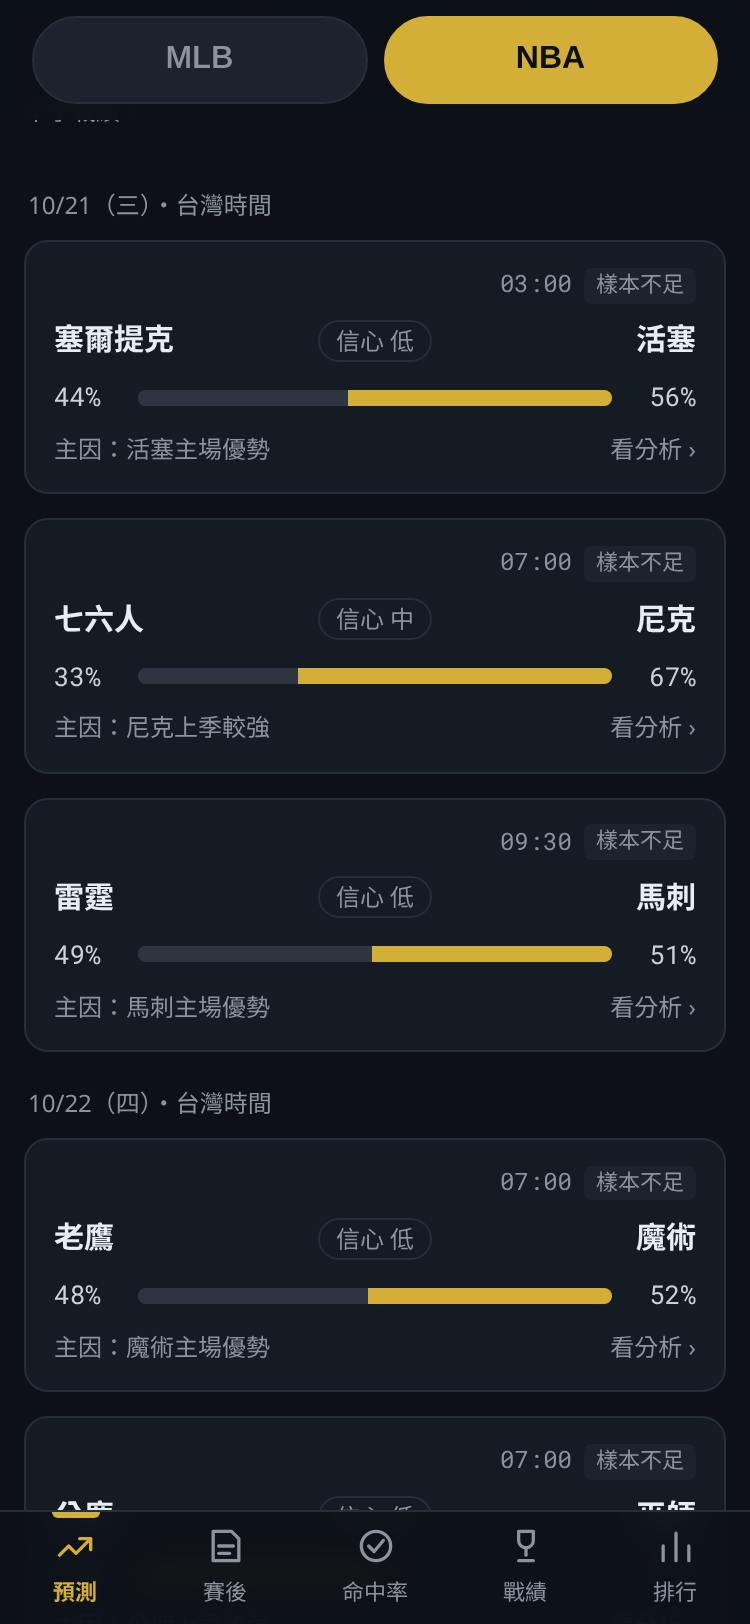
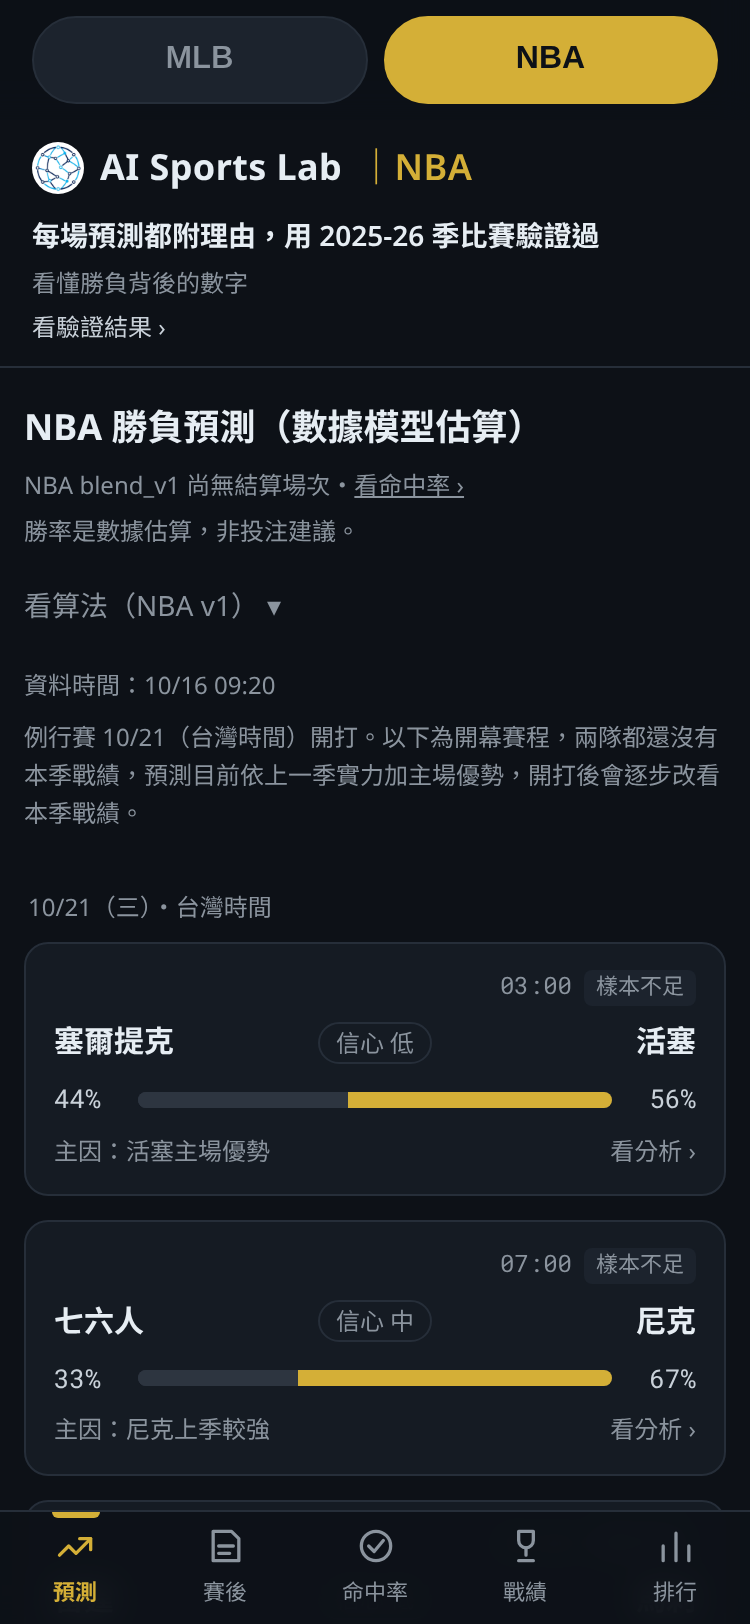
說明列改為「…非投注建議・台灣時間　看算法」

diff --git a/index.html b/index.html
@@ -12,22 +12,22 @@
 <meta name="twitter:card" content="summary_large_image">
 <meta name="twitter:title" content="AI Sports Lab｜MLB、NBA 中文數據分析">
 <meta name="twitter:description" content="每場預測都附理由，看懂勝負背後的數字。數據分析，非投注建議。">
-<meta name="twitter:image" content="https://8b2b5t58zf-png.github.io/mlb-site/img/og-home.png?v=202610162300">
+<meta name="twitter:image" content="https://8b2b5t58zf-png.github.io/mlb-site/img/og-home.png?v=202610162330">
 <meta property="og:type" content="website">
-<meta property="og:image" content="https://8b2b5t58zf-png.github.io/mlb-site/img/og-home.png?v=202610162300">
+<meta property="og:image" content="https://8b2b5t58zf-png.github.io/mlb-site/img/og-home.png?v=202610162330">
 <meta property="og:image:width" content="1200"><meta property="og:image:height" content="630">
-<link rel="icon" type="image/png" sizes="32x32" href="favicon-32.png?v=202610162300">
-<link rel="apple-touch-icon" sizes="180x180" href="apple-touch-icon.png?v=202610162300">
+<link rel="icon" type="image/png" sizes="32x32" href="favicon-32.png?v=202610162330">
+<link rel="apple-touch-icon" sizes="180x180" href="apple-touch-icon.png?v=202610162330">
 <meta property="og:url" content="https://8b2b5t58zf-png.github.io/mlb-site/">
 <!-- 引入樣式檔，負責網頁外觀 -->
-<link rel="stylesheet" href="style.css?v=202610162300">
+<link rel="stylesheet" href="style.css?v=202610162330">
 <!-- 從 CDN 載入 Chart.js，用來畫圖表 -->
 <script src="https://cdn.jsdelivr.net/npm/chart.js@4"></script>
 </head>
 <body>
 <div id="lgbar"><div class="lgsw" role="tablist" aria-label="切換聯盟"><button data-lg="mlb" aria-selected="true">MLB</button><button data-lg="nba" aria-selected="false">NBA</button></div></div>
 <header>
-  <h1 class="brand"><img class="logo" src="img/logo-icon.png?v=202610162300" alt="" width="30" height="30"><span class="nw">AI Sports Lab</span><span class="sport" id="lg-tag">｜MLB</span></h1>
+  <h1 class="brand"><img class="logo" src="img/logo-icon.png?v=202610162330" alt="" width="30" height="30"><span class="nw">AI Sports Lab</span><span class="sport" id="lg-tag">｜MLB</span></h1>
   <p class="tagline">每場預測都附理由，<span id="tg-scope">用 2026 整季比賽驗證過</span></p>
   <p class="tagline-sub">看懂勝負背後的數字</p>
   <p class="tagline-link"><a id="tg-link" href="validation.html">看驗證結果 ›</a></p>
@@ -40,7 +40,7 @@
   <!-- 重點一：比賽勝負預測（數據模型估算） -->
   <section id="sec-predict"><h2>比賽勝負預測</h2>
     <p class="acc-line" id="mlb-acc" hidden></p>
-    <p class="note pnote">勝率是數據估算，非投注建議；時間為台灣時間。<button type="button" class="algo-tog" aria-expanded="false" aria-controls="algo-mlb">看算法 ▾</button></p>
+    <p class="note pnote">勝率是數據估算，非投注建議・台灣時間　<button type="button" class="algo-tog" aria-expanded="false" aria-controls="algo-mlb">看算法 ▾</button></p>
     <details class="algo algo-top" id="algo-mlb"><summary>看算法（模型 v2）</summary>
       <ol><li><b>從 50% 出發</b>：每場比賽先假設兩隊各 50%，再依序加減三項，三格的加減加起來就是最終勝率。</li>
       <li><b>戰績</b>：每隊實力分數＝本季實際勝率 50%＋畢氏期望勝率 50%（用總得分、總失分推算「應該」有的勝率），兩隊用 Log5 公式比較。棒球單場運氣成分大，所以再把差距縮小到約四分之一。</li>
@@ -71,7 +71,7 @@
 <main id="nba-main" class="nba-only">
   <section id="nsec-predict"><h2>NBA 勝負預測</h2>
     <p class="acc-line" id="nba-acc" hidden></p>
-    <p class="note pnote">勝率是數據估算，非投注建議；時間為台灣時間。<button type="button" class="algo-tog" aria-expanded="false" aria-controls="algo-nba">看算法 ▾</button></p>
+    <p class="note pnote">勝率是數據估算，非投注建議・台灣時間　<button type="button" class="algo-tog" aria-expanded="false" aria-controls="algo-nba">看算法 ▾</button></p>
     <details class="algo algo-top" id="algo-nba"><summary>看算法（NBA v1）</summary>
       <ol><li>信心分級（看好方勝率）：未滿 60% 為「接近五五波」（大字寫「勢均力敵」），60%～未滿 70% 為「略占上風」，70% 以上為「明顯看好」。開季到 1/14 數據少，最高只寫「看好」。</li><li>每隊<b>實力分數</b>＝本季勝率 50%＋畢氏期望勝率 50%（得分<sup>14</sup> ÷（得分<sup>14</sup>＋失分<sup>14</sup>））。</li>
       <li>依出賽場數往 .500 拉回：權重＝場數 ÷（場數＋5），開季前幾場拉得很重。</li>
@@ -108,11 +108,11 @@
 <!-- 手機底部固定導覽列（寬度小於 768px 才顯示） -->
 <nav id="bottomnav" aria-label="主選單"><a href="#sec-predict" data-sec="sec-predict"><span class="ic" aria-hidden="true"><svg viewBox="0 0 24 24" width="22" height="22" fill="none" stroke="currentColor" stroke-width="1.8" stroke-linecap="round" stroke-linejoin="round"><path d="M3 17l5-5 4 4 8-8"/><path d="M14 8h6v6"/></svg></span><span>預測</span></a><a href="#sec-analysis" data-sec="sec-analysis"><span class="ic" aria-hidden="true"><svg viewBox="0 0 24 24" width="22" height="22" fill="none" stroke="currentColor" stroke-width="1.8" stroke-linecap="round" stroke-linejoin="round"><path d="M5 4h10l4 4v12H5z"/><path d="M8 12h8M8 16h6"/></svg></span><span>賽後</span></a><a href="#sec-hit" data-sec="sec-hit"><span class="ic" aria-hidden="true"><svg viewBox="0 0 24 24" width="22" height="22" fill="none" stroke="currentColor" stroke-width="1.8" stroke-linecap="round" stroke-linejoin="round"><circle cx="12" cy="12" r="8"/><path d="M8 12l3 3 5-6"/></svg></span><span>命中率</span></a><a href="#sec-standings" data-sec="sec-standings"><span class="ic" aria-hidden="true"><svg viewBox="0 0 24 24" width="22" height="22" fill="none" stroke="currentColor" stroke-width="1.8" stroke-linecap="round" stroke-linejoin="round"><path d="M8 4h8v5a4 4 0 01-8 0z"/><path d="M12 13v4M8 20h8"/></svg></span><span>戰績</span></a><a href="#sec-batting" data-sec="sec-batting"><span class="ic" aria-hidden="true"><svg viewBox="0 0 24 24" width="22" height="22" fill="none" stroke="currentColor" stroke-width="1.8" stroke-linecap="round" stroke-linejoin="round"><path d="M5 20V12M12 20V5M19 20v-8"/></svg></span><span>排行</span></a></nav>
 <footer class="site-foot" id="foot"><p class="foot-src">AI Sports Lab 為個人數據分析網站，非投注建議。資料來源：MLB Stats API、ESPN。</p><p><a href="#about" data-go="about" class="foot-about">關於與免責</a>・<a href="validation.html">回測說明</a></p></footer>
-<script src="players.js?v=202610162300"></script>
-<script src="players-nba.js?v=202610162300"></script>
-<script src="why-text.js?v=202610162300"></script>
-<script src="nba.js?v=202610162300"></script>
-<script src="app.js?v=202610162300"></script>
+<script src="players.js?v=202610162330"></script>
+<script src="players-nba.js?v=202610162330"></script>
+<script src="why-text.js?v=202610162330"></script>
+<script src="nba.js?v=202610162330"></script>
+<script src="app.js?v=202610162330"></script>
 <script>window.goatcounter={path:function(p){return location.pathname+location.hash}};</script>
 <script data-goatcounter="https://aisportslab.goatcounter.com/count" async src="//gc.zgo.at/count.js"></script>
 </body>

diff --git a/style.css b/style.css
@@ -315,7 +315,7 @@ body.view-about #mlb-main,body.view-about #nba-main{display:none}
 /* 預測分頁標題區縮短 */
 #sec-predict>h2,#nsec-predict>h2{font-size:18px;line-height:1.3;margin-bottom:4px}
 #sec-predict>.acc-line,#nsec-predict>.acc-line,#sec-predict>.day-sum,#sec-predict>.pnote,#nsec-predict>.pnote{font-size:12px;line-height:18px;margin:0 0 4px}
-.algo-tog{all:unset;cursor:pointer;color:var(--link);font-size:12px;margin-left:6px;white-space:nowrap}
+.algo-tog{all:unset;cursor:pointer;color:var(--link);font-size:12px;margin-left:0;white-space:nowrap}
 .algo-tog:focus-visible{outline:2px solid #d4af37}
 .algo-top>summary{display:none}
 .algo-top:not([open]){margin:0}
